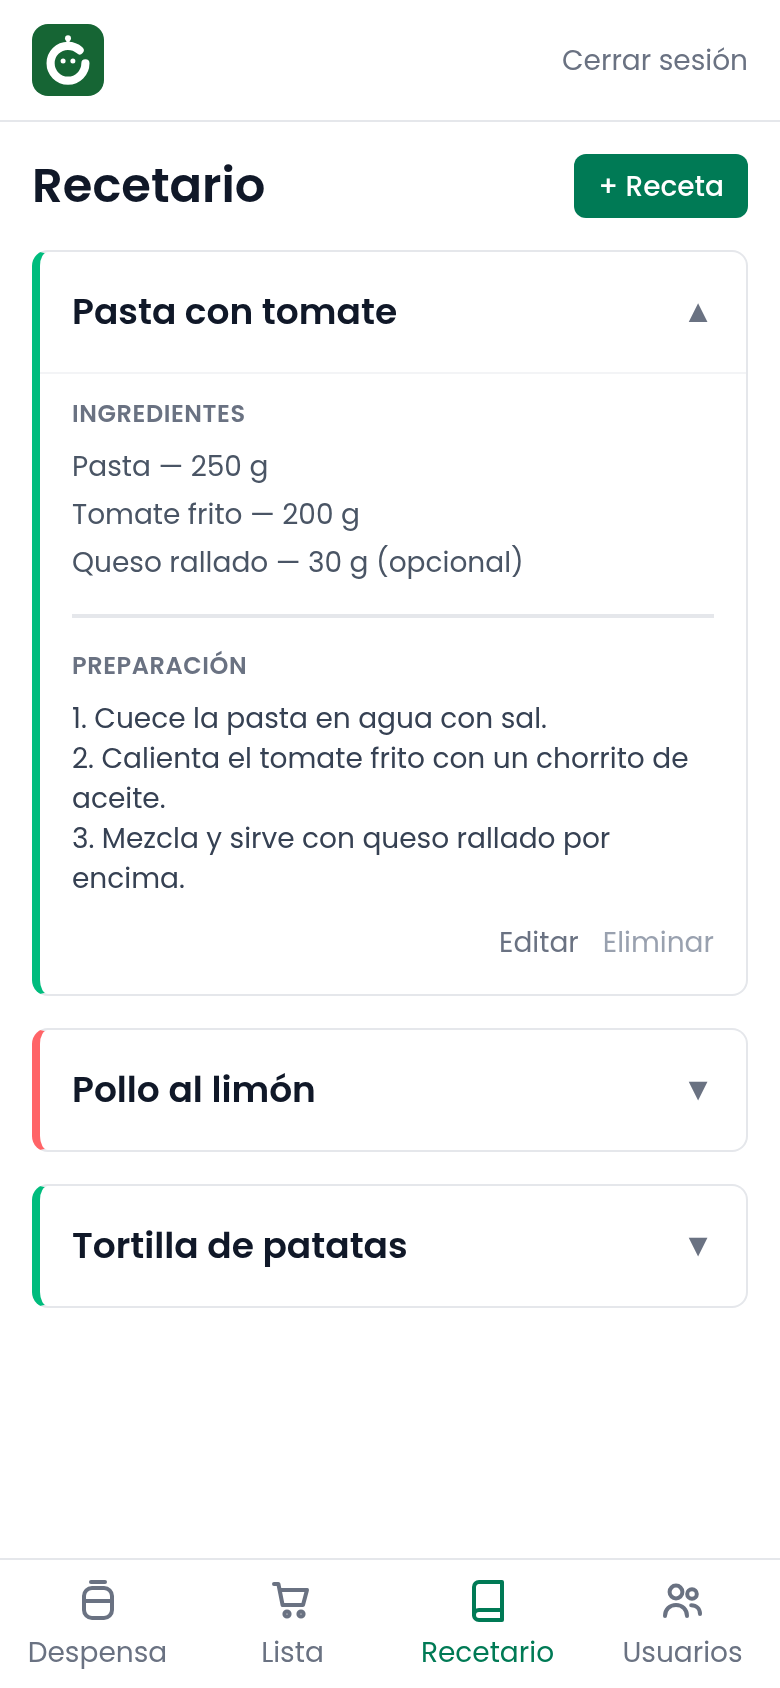
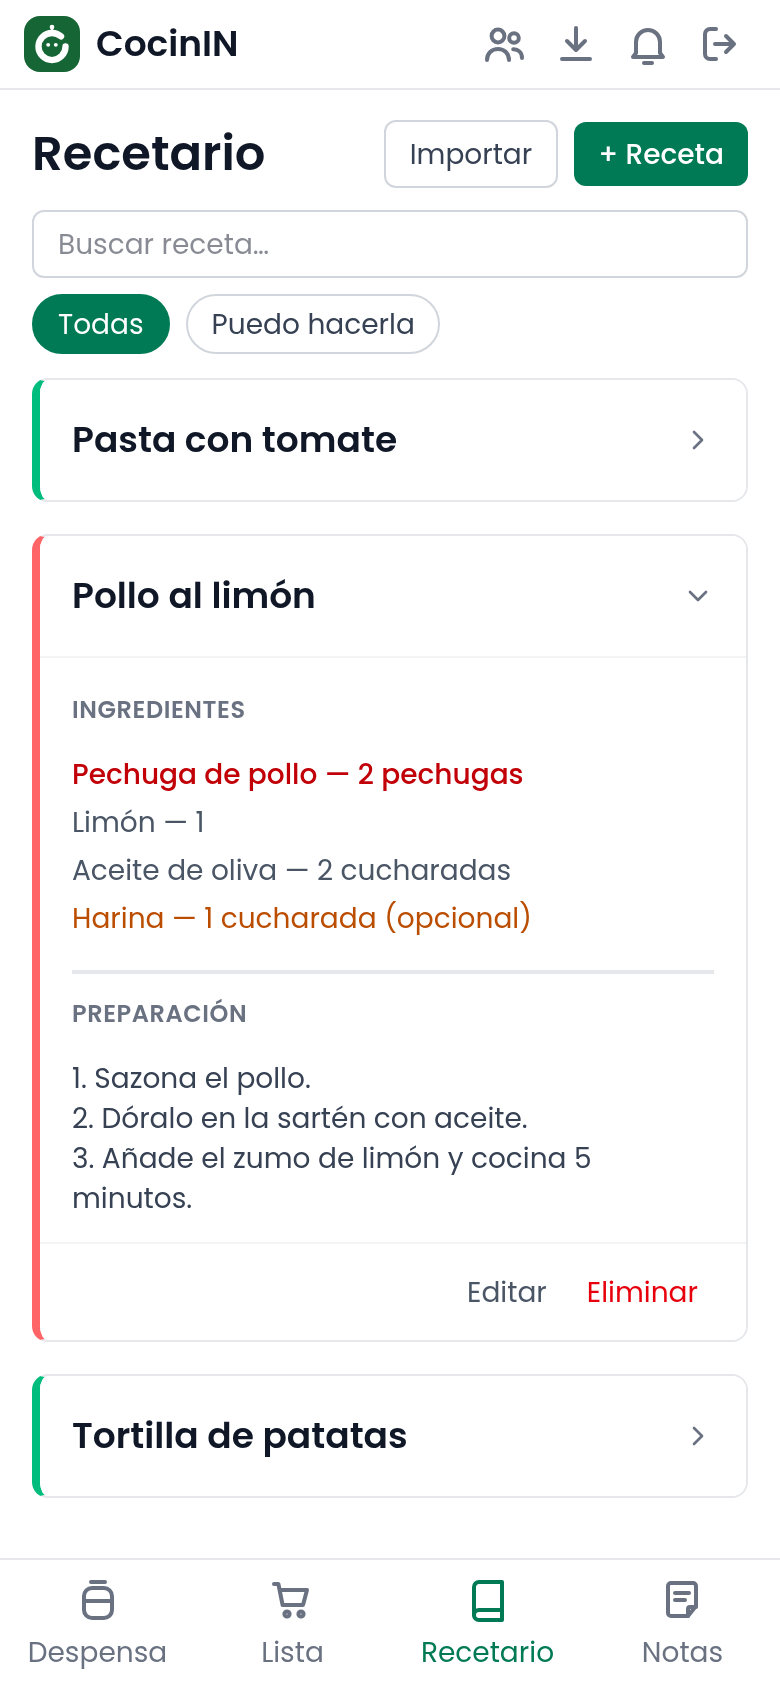
README y capturas actualizados (barra superior, notas, nuevos controles); versión 1.2.0

diff --git a/README.md b/README.md
@@ -5,7 +5,7 @@
 <h1 align="center">CocinIN</h1>
 
 <p align="center">
-  Despensa, lista de la compra y recetario compartidos para toda la casa.<br>
+  Despensa, lista de la compra, recetario y notas compartidos para toda la casa.<br>
   Se instala como app en el móvil y también funciona desde cualquier navegador.
 </p>
 
@@ -18,12 +18,13 @@
 CocinIN responde a tres preguntas del día a día: **¿qué tenemos en casa?**, **¿qué hay que comprar?** y **¿qué podemos cocinar?** Todo se sincroniza al instante entre las personas de la casa: si alguien tacha algo en el súper, los demás lo ven en su móvil.
 
 - 🥫 **Despensa**: ingredientes por grupos con un interruptor *disponible / agotado*, un copo de nieve para marcarlos como *congelados*, y fecha de compra o de caducidad (con avisos de «caduca en 2 días»).
-- 🛒 **Lista de la compra**: lo que te falta, con buscador. Al confirmar la compra, lo comprado vuelve a la despensa y se anota en el historial.
-- 📖 **Recetario**: recetas con ingredientes (obligatorios u opcionales) y preparación. Cada receta se marca según tengas o no lo necesario.
-- 👥 **Usuarios**: un administrador da de alta a los demás. Cada casa tiene su propia instalación y sus datos son privados.
+- 🛒 **Lista de la compra**: lo que te falta, con buscador y un «+» para añadirlo (con «Deshacer»). Al confirmar la compra, lo comprado vuelve a la despensa y se anota en el historial.
+- 📖 **Recetario**: recetas con ingredientes (obligatorios u opcionales) y preparación, con buscador y filtro «Puedo hacerla». Lo que te falta sale en rojo (y en ámbar si es opcional).
+- 📝 **Notas**: recordatorios con hora y fecha («Sacar pollo del congelador, mañana a las 17:30») que avisan por el móvil a las personas que elijas.
+- 👥 **Usuarios**: un administrador da de alta a los demás y puede ponerles un alias. Cada casa tiene su propia instalación y sus datos son privados.
 - 📥 **Importar recetas**: pega el JSON que te prepare cualquier IA con la receta y se añaden al recetario, con vista previa.
-- 🔔 **Avisos en el móvil** (opcional): algo se ha gastado, compra hecha, algo va a caducar…
-- 🌗 Modo claro y oscuro automático, y copia de seguridad en un clic.
+- 🔔 **Avisos en el móvil** (opcional): algo se ha agotado, compra hecha, algo va a caducar, una nota con hora…
+- 🌗 Modo claro y oscuro automático, copia de seguridad en un clic (icono de descarga de la barra superior) y aviso cuando hay una versión nueva de la app.
 
 Es una **PWA**: puedes usarla desde el navegador del ordenador o del móvil, o **instalarla como una app** con su icono en la pantalla de inicio, a pantalla completa y sin barra del navegador.
 
@@ -38,10 +39,11 @@ Es una **PWA**: puedes usarla desde el navegador del ordenador o del móvil, o *
 ## Capturas
 
 <p>
-  <img src="docs/screenshots/movil-login.png" alt="Inicio de sesión" width="24%">
-  <img src="docs/screenshots/movil-despensa.png" alt="Despensa" width="24%">
-  <img src="docs/screenshots/movil-lista.png" alt="Lista de la compra" width="24%">
-  <img src="docs/screenshots/movil-receta.png" alt="Receta" width="24%">
+  <img src="docs/screenshots/movil-login.png" alt="Inicio de sesión" width="19%">
+  <img src="docs/screenshots/movil-despensa.png" alt="Despensa" width="19%">
+  <img src="docs/screenshots/movil-lista.png" alt="Lista de la compra" width="19%">
+  <img src="docs/screenshots/movil-receta.png" alt="Receta" width="19%">
+  <img src="docs/screenshots/movil-notas.png" alt="Notas con aviso" width="19%">
 </p>
 
 *Los datos de las capturas son de ejemplo.*
@@ -97,12 +99,13 @@ Al terminar, abre tu URL: mientras no exista ningún usuario, el login muestra *
 | Acción | Cómo |
 | --- | --- |
 | Añadir ingrediente | Despensa → «+ Ingrediente». Nace disponible (ON). |
-| Agotado / disponible / congelado | Interruptor a la derecha del ingrediente; el copo de nieve lo marca como congelado (cuenta como disponible). |
+| Agotado / disponible / congelado | Interruptor a la izquierda del ingrediente (verde disponible, rojo agotado, azul congelado); el copo de nieve, a su lado, lo marca como congelado (cuenta como disponible). Al agotarlo, la app te ofrece «Añadir a la lista». |
 | Caducidad, cantidad, editar o eliminar | Toca el ingrediente: fechas, cantidad (texto libre, p. ej. «500 g») y botones **Editar** y **Eliminar**. |
 | Buscar | El buscador de la Despensa filtra por ingrediente **o por grupo**. |
-| Comprar | Lista → «Añadir a la lista» en lo que falta → marca lo comprado → «Confirmar compra». |
+| Comprar | Lista → «+» en lo que falta → marca lo comprado → «Confirmar compra». |
 | Receta nueva | Recetario → «+ Receta», o **Importar** para pegar un JSON con una o varias recetas (vista previa y «Deshacer importación»). |
-| Usuarios y copia de seguridad | **Usuarios** (solo administrador) da de alta y quita personas. **Descargar copia de seguridad** está al final de Despensa y Recetario, para cualquiera. |
+| Nota con aviso | Notas → «+ Nota» → activa «Avisar a una hora», elige hora y fecha y a quién avisar (por defecto, a todos). |
+| Usuarios y copia de seguridad | En la barra superior: **Usuarios** (solo administrador: alta, baja y alias) y el icono de **descargar copia de seguridad**, para cualquiera. |
 | Olvidé la contraseña | Login → «¿Has olvidado la contraseña?» |
 
 ---
@@ -120,12 +123,12 @@ Al terminar, abre tu URL: mientras no exista ningún usuario, el login muestra *
 
 La app funciona completa sin esto. Si quieres notificaciones (algo se ha gastado, compra hecha, algo va a caducar…), hace falta un servicio pequeño en una máquina tuya siempre encendida con Docker, por ejemplo una Raspberry Pi. Firebase gratis no puede enviarlas por sí solo.
 
-Avisa de: elemento gastado, varios añadidos a la lista, compra hecha, receta nueva, usuario nuevo y caducidad próxima. Cada persona elige cuáles quiere en la campana de la app, y nunca se avisa a quien provoca el cambio.
+Avisa de: ingrediente agotado, varios añadidos a la lista, compra hecha, receta nueva, usuario nuevo, caducidad próxima y notas con hora. Cada persona elige cuáles quiere en la campana de la barra superior, y nunca se avisa a quien provoca el cambio.
 
 **Instalación**
 1. Descarga la clave de tu proyecto: consola de Firebase → Configuración del proyecto → Cuentas de servicio → *Generar nueva clave privada*, y guárdala como `notifier/secrets/service-account.json` (no la subas ni la compartas).
 2. Ejecuta `cd notifier && ./instalar.sh` (en esa máquina) o `./instalar.sh usuario@host` (por ssh). El script hace el resto; si cambia `.env`, ejecuta después `npm run deploy`.
-3. En cada móvil: campana → **Activar**. En iPhone, antes añade la app a la pantalla de inicio.
+3. En cada móvil: campana de la barra superior → **Activar**. En iPhone, antes añade la app a la pantalla de inicio.
 
 Si la máquina está apagada, los avisos de ese rato se pierden. Más detalles en [`notifier/README.md`](notifier/README.md).
 
@@ -147,7 +150,7 @@ Tu `.env` y `.firebaserc` no se tocan, así que sigues con tu proyecto y tus dat
 - **Aviso de versión nueva**: el admin ve un aviso en la app cuando hay una release más reciente en GitHub que la instalada (una consulta al día a la API pública de GitHub). Para no consultar: `VITE_DISABLE_UPDATE_CHECK=true` en `.env`; para otro repositorio: `VITE_UPDATE_REPO=usuario/repo`.
 - Solo las reglas: `npm run deploy:rules`.
 - **Sin conexión**: la app guarda una copia local y sincroniza al volver la cobertura.
-- **Copia de seguridad**: descárgala de vez en cuando desde Despensa o Recetario.
+- **Copia de seguridad**: descárgala de vez en cuando con el icono de descarga de la barra superior.
 - **Dominio propio**: Firebase Console → Hosting → *Add custom domain*.
 - Límites del plan gratuito (Spark): 50 000 lecturas y 20 000 escrituras al día en Firestore; de sobra para una casa.
 

diff --git a/notifier/README.md b/notifier/README.md
@@ -11,6 +11,7 @@ Escucha Firestore con una cuenta de servicio y envía Web Push (VAPID) a los dis
 | Compra hecha | se confirma la compra | «12 productos añadidos a la despensa» |
 | Receta nueva | entra una receta (2 s; una importación en lote sale como un solo aviso) | título, o «3 recetas nuevas en el recetario» |
 | Usuario nuevo | el admin añade a alguien | «*correo* se ha unido» |
+| Nota | llega la hora de una nota con aviso (se revisa cada 30 s); solo a las personas elegidas en la nota, sin ventana horaria | el texto de la nota |
 | Caducidad | un ingrediente entra en «caduca en 3 días o menos»; revisión cada hora, solo de 8:00 a 22:00 | «Leche caduca mañana» / «6 ingredientes caducan pronto: Leche (hoy), …» |
 
 - No se avisa a quien provoca el cambio (los documentos llevan el campo `by` con su uid).
